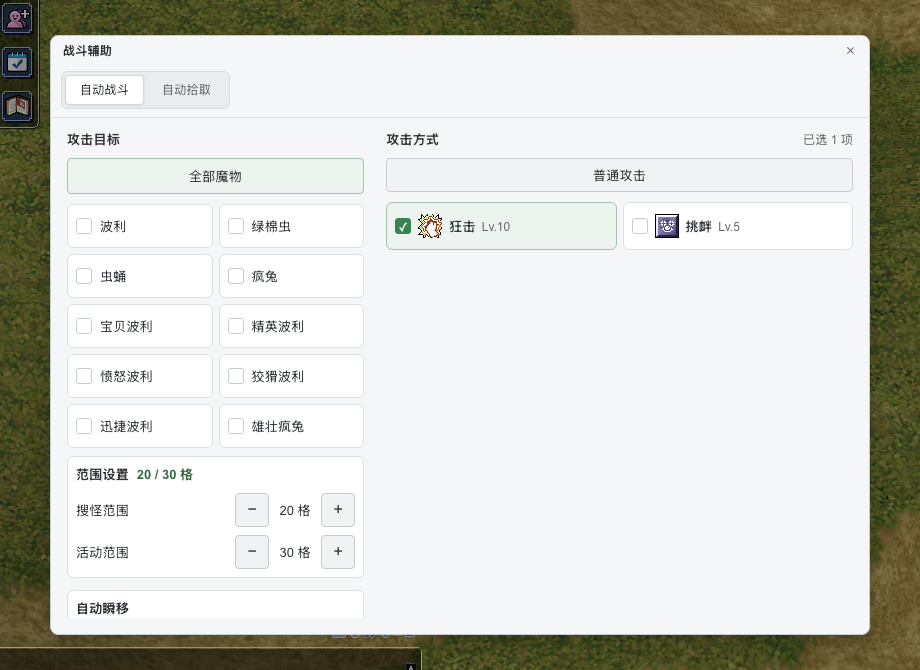
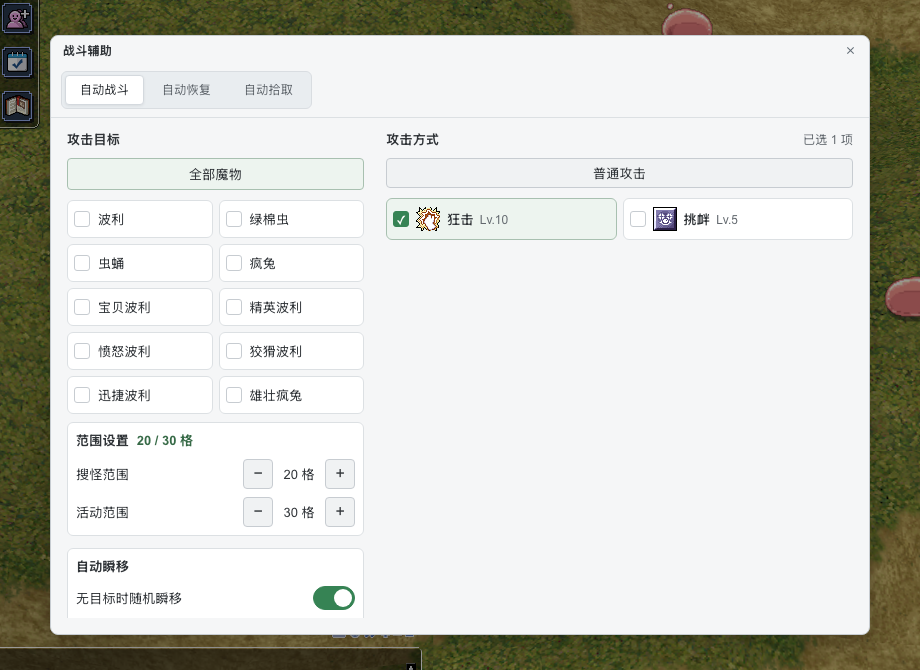
docs(images): Refresh the current combat settings screenshot

diff --git a/docs/development/readme-images/capture.md b/docs/development/readme-images/capture.md
@@ -121,11 +121,11 @@ v0.5.0 离线包空库初始化会在 `happyro/happyro` 第一角色位创建同
 | 功能入口 | 右下角三个按钮中的设置齿轮（`[data-settings]`），不要点击战斗或拾取开关 |
 | 页签 | 自动战斗 |
 | 镜头与窗口 | 镜头 125；窗口位置 `(230,100)`、尺寸 820 × 600 |
-| 截图状态 | 自动战斗关闭；全部魔物、狂击 Lv.10；搜索 20 格、活动 30 格；无目标随机传送关闭；等待 5 秒、最短间隔 2 秒 |
+| 截图状态 | 自动战斗关闭；全部魔物、狂击 Lv.10；搜索 20 格、活动 30 格；无目标随机瞬移开启；等待 2 秒、最短间隔 2 秒 |
 | 裁剪 | `x: 180, y: 65, width: 920, height: 670` |
 | 截图格式 | PNG |
 
-候选列表显示当前地图配置的魔物种类，并非附近存活魔物清单。截图保留列表顶部、攻击方式与范围设置；无目标随机传送位于左栏下方，需要滚动查看，不为容纳全部设置删减真实候选。截图选择角色实际习得的狂击 Lv.10，自动战斗保持关闭。后续角色技能列表不同可以自然呈现，不伪造技能或状态。图中保留自动拾取页签，但没有额外拼入拾取页面。
+候选列表显示当前地图配置的魔物种类，并非附近存活魔物清单。截图保留列表顶部、攻击方式与范围设置；无目标随机传送位于左栏下方，需要滚动查看，不为容纳全部设置删减真实候选。截图选择角色实际习得的狂击 Lv.10，自动战斗保持关闭。后续角色技能列表不同可以自然呈现，不伪造技能或状态。图中保留自动恢复与自动拾取页签，但没有额外拼入这两页。
 
 ## 后台掉落倍率
 
@@ -169,3 +169,5 @@ await page.screenshot({
 战斗辅助删除说明文案后，`happyro-combat.png` 单独以构建 `mvnci1n2` 重拍，并同步根仓库和文档站；其余图片保留各自的实际拍摄构建。
 
 公开来源清单位于 `repos/happyro-doc/docs/public/images/sources.json`，记录视口、操作、构建号与 SHA-256。根 README 的五张正式图与文档站 `overview/` 必须逐字节一致。手机和平板教程继续使用本页视口、角色及镜头基准，不通过伪造 DOM、修改职业、发放资产或调整服务器倍率布置画面。
+
+恢复技能单列表后，战斗图以构建 `mvnmr2g6` 重拍，展示「自动战斗／自动恢复／自动拾取」标签及当前按钮尺寸。沿用罗安剑士、1280 × 800 视口和 920 × 670 裁剪，根仓库与文档站图片同步；其余图片不含本轮变化的技能选择分组，保留原图与来源。
